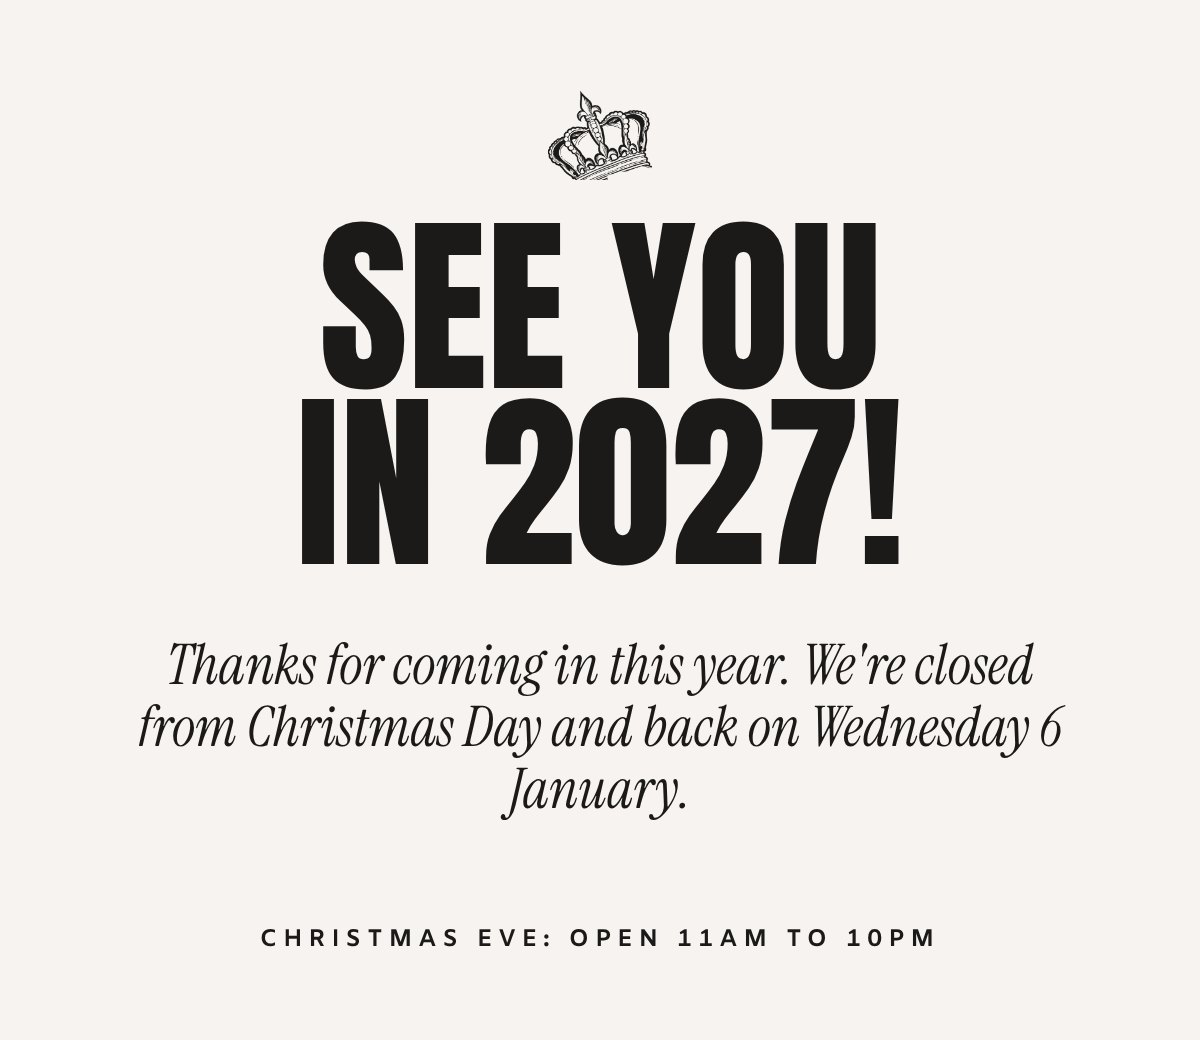
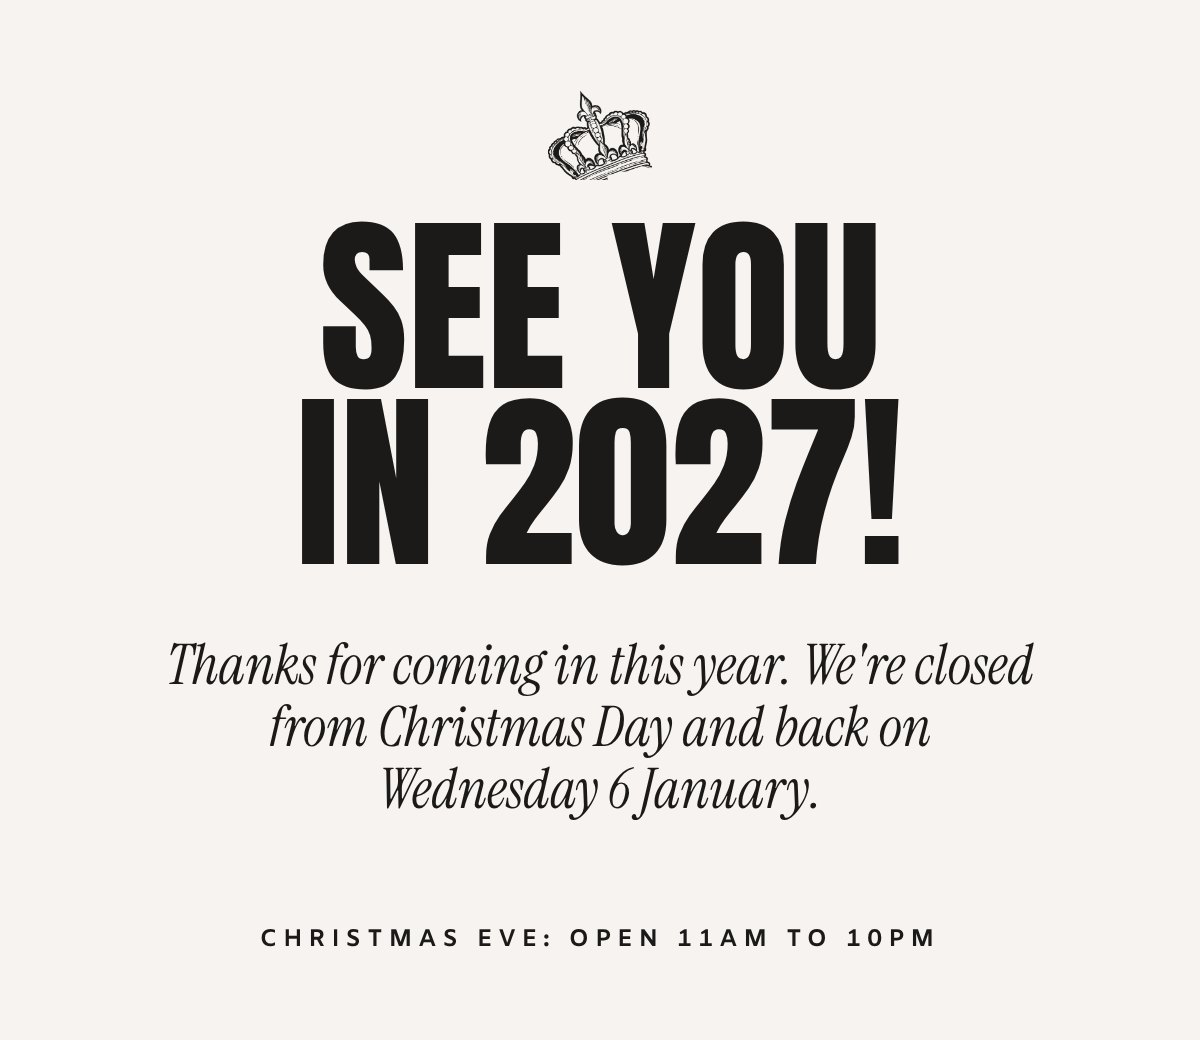
Lizzie last gifts: keep reopening date on one line, cut repeated copy
Claude-Session: https://claude.ai/code/session_01JNj2JeQGYZLpLPwVj3fL53

Changed region(s): [[0.1233, 0.6769, 0.8942, 0.8]]

diff --git a/last-drop-elizabethan/plan/e-lastgift.html b/last-drop-elizabethan/plan/e-lastgift.html
@@ -20,6 +20,6 @@ img{display:block;width:600px;max-width:100%;height:auto}
 <a href="https://giftcards.nowbookit.com/cards/card-selection?accountid=58cf4dc2-efec-44b6-9343-872a46e872fb&venueid=7196&theme=light&accent=00%2C00%2C00"><img src="img/lizzie-gifts-goodstuff-v5.jpg" alt="What a gift card gets them: $25 garlic bread and chippies, $50 a dirty burger and sticky date pudding, $100 two parmis and two sticky date puddings, $150 giant yorkies for four plus two Eton messes."></a>
 <div class="b ink" style="padding-top:0"><a href="https://giftcards.nowbookit.com/cards/card-selection?accountid=58cf4dc2-efec-44b6-9343-872a46e872fb&venueid=7196&theme=light&accent=00%2C00%2C00">Buy a gift card</a></div>
 <img src="img/lizzie-lastgift-2027.jpg" alt="See you in 2027! Thanks for coming in this year. We're closed from Christmas Day and back on Wednesday 6 January. Christmas Eve: open 11am to 10pm.">
-<div class="t" style="padding-top:0"><p>This is our last email for the year. On Christmas Eve we're open from 11am to 10pm, and the kitchen's on from 12 to 2:30 and 5:30 to 8:30. Then we take a break and we're back on Wednesday 6 January.</p><p>Sarah and the Lizzie crew</p><p class="small">Planning a birthday or a work do for early next year? <a href="mailto:info@lastdropelizabethan.com?subject=Function%20enquiry%20%28from%20your%20email%29&body=Hi%20Lizzie%20team%2C%0A%0AWe%27re%20planning%20a%20function.%0A%0AOccasion%3A%0ADate%3A%0ANumber%20of%20guests%3A%0ASpace%20we%27d%20like%20%28if%20you%20know%29%3A%0AName%20and%20phone%3A%0A%0AThanks%21">Email me</a> and we can start planning.</p></div>
+<div class="t" style="padding-top:0"><p>This is our last email for the year. If you're coming in on Christmas Eve, the kitchen's on from 12 to 2:30 and 5:30 to 8:30.</p><p>Sarah and the Lizzie crew</p><p class="small">Planning a birthday or a work do for early next year? <a href="mailto:info@lastdropelizabethan.com?subject=Function%20enquiry%20%28from%20your%20email%29&body=Hi%20Lizzie%20team%2C%0A%0AWe%27re%20planning%20a%20function.%0A%0AOccasion%3A%0ADate%3A%0ANumber%20of%20guests%3A%0ASpace%20we%27d%20like%20%28if%20you%20know%29%3A%0AName%20and%20phone%3A%0A%0AThanks%21">Email me</a> and we can start planning.</p></div>
 <div style="height:14px"></div>
 <img src="img/lizzie-welcome-signoff.jpg" alt="A pure beer for a wicked world. Last Drop Elizabethan, since 1992."><div class="f">You're getting this because you signed up with Last Drop Elizabethan, or said yes to hearing from us when you booked or ordered.<br>Last Drop Elizabethan · 25 Canns Road, Bedfordale WA 6112<br><u>Unsubscribe</u></div></div></body></html>
